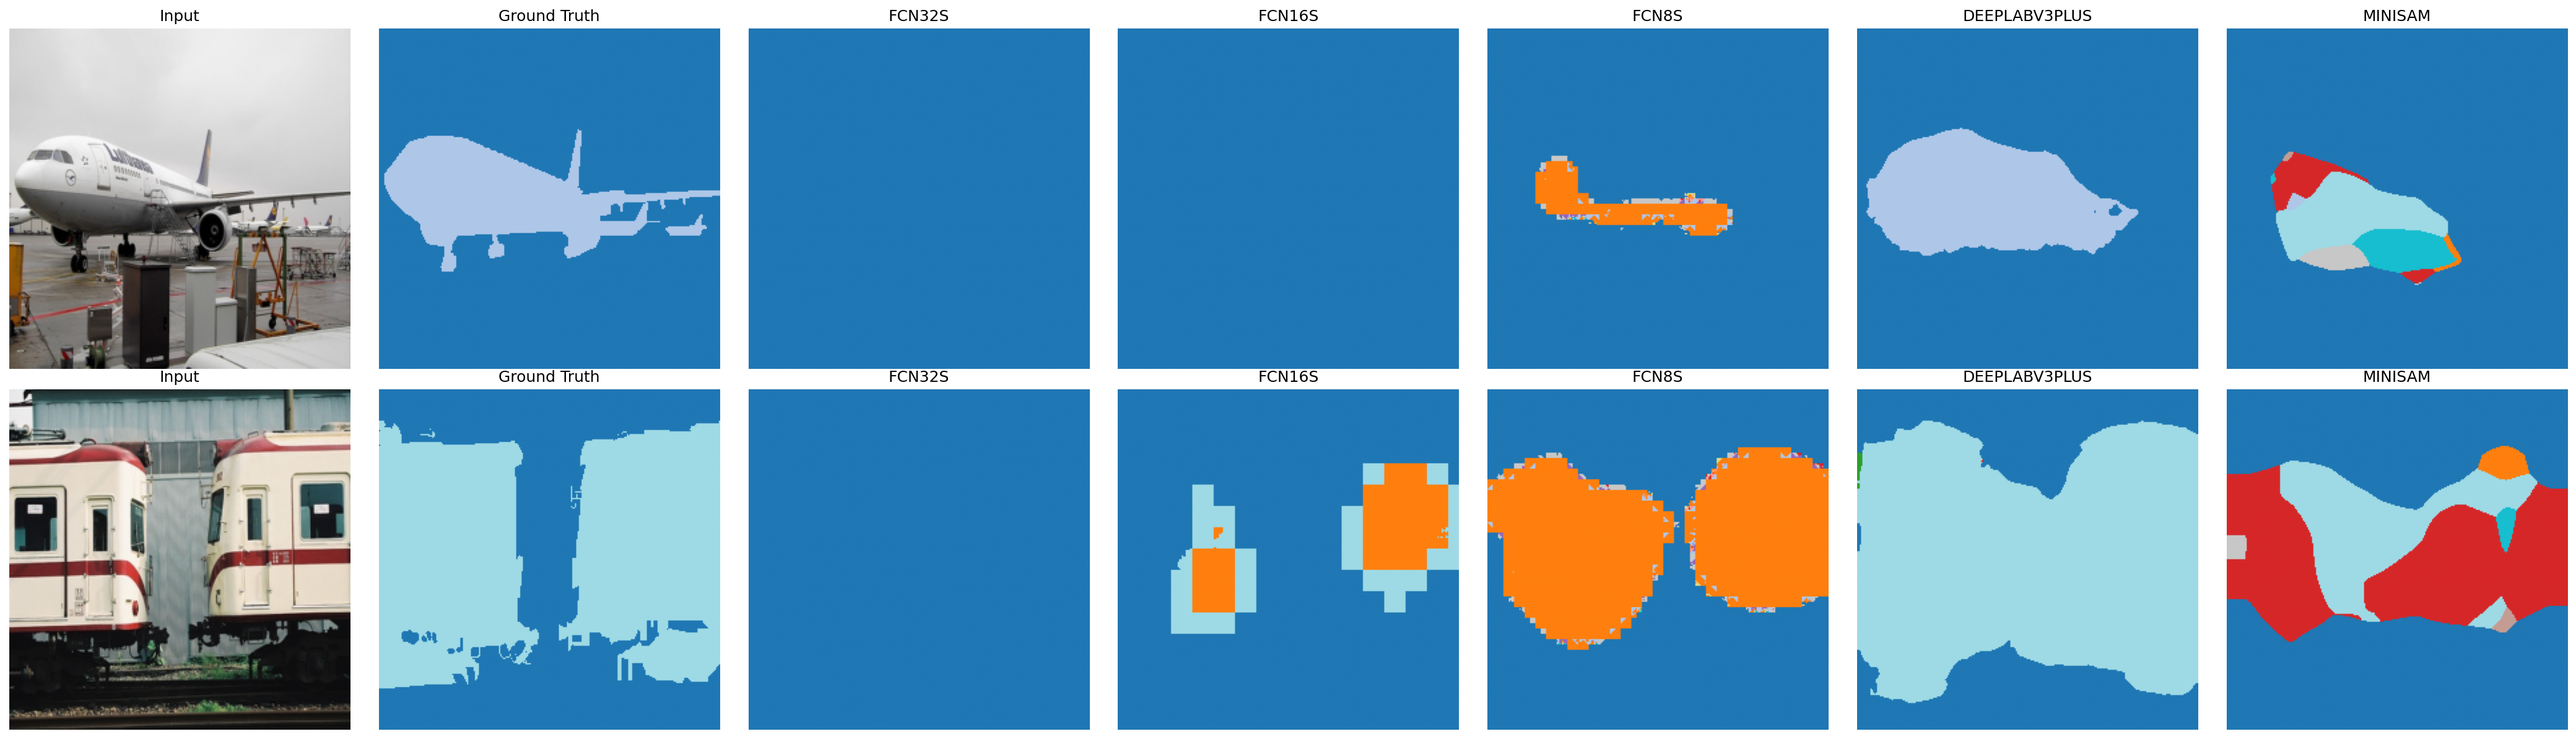
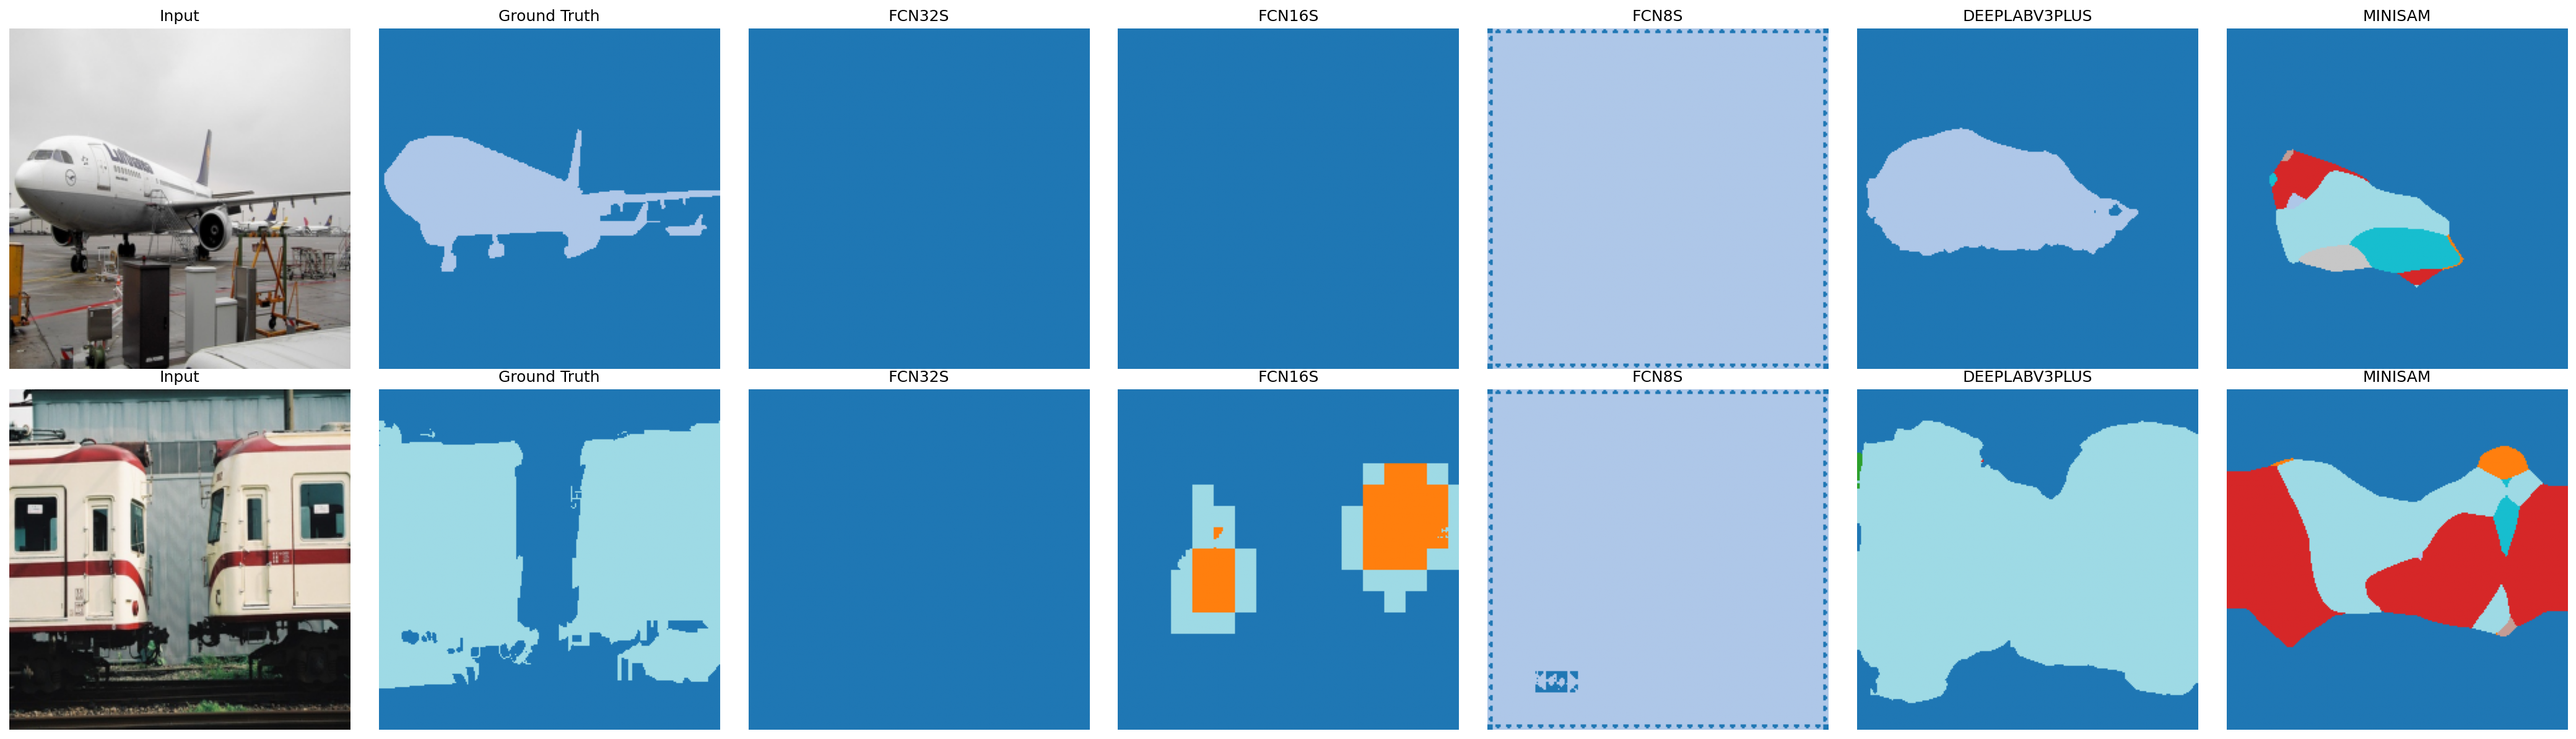
Refactor weight initialization in FCN architectures; enhance training configuration; update model comparison and training curve images.

diff --git a/Advanced_Image_Segmentation/codes/lab05_student.py b/Advanced_Image_Segmentation/codes/lab05_student.py
@@ -212,27 +212,23 @@ class FCN16s(nn.Module):
         return x
     
     def _initialize_weights(self):
-        """Initialize ConvTranspose2d and score layers with proper weights"""
-        for m in self.modules():
-            if isinstance(m, nn.ConvTranspose2d):
-                # Initialize with bilinear upsampling weights
-                # ConvTranspose2d weight shape: (in_channels, out_channels, kernel_h, kernel_w)
-                in_ch, out_ch, h, w = m.weight.data.size()
-                weight = self._get_bilinear_filter(h, w, in_ch, out_ch)
-                m.weight.data.copy_(weight)
-            elif isinstance(m, nn.Conv2d):
-                # Initialize score layers (1x1 conv) with small weights
-                if m.kernel_size == (1, 1):
-                    nn.init.xavier_uniform_(m.weight, gain=0.1)
-                    if m.bias is not None:
-                        nn.init.constant_(m.bias, 0)
+        """Initialize upsampling and score layers (don't touch pretrained ResNet)"""
+        # Initialize upsampling layer with bilinear interpolation
+        if isinstance(self.upscore32, nn.ConvTranspose2d):
+            in_ch, out_ch, h, w = self.upscore32.weight.data.size()
+            weight = self._get_bilinear_filter(h, w, in_ch, out_ch)
+            self.upscore32.weight.data.copy_(weight)
+        
+        # Initialize score layer with small random weights
+        nn.init.normal_(self.score_fr.weight, std=0.01)
+        if self.score_fr.bias is not None:
+            nn.init.constant_(self.score_fr.bias, 0)
     
     def _get_bilinear_filter(self, kernel_h, kernel_w, in_channels, out_channels):
         """Generate bilinear interpolation weights"""
         factor = (kernel_h + 1) // 2
         if kernel_h % 2 == 1:
             center = factor - 1
-        else:
             center = factor - 0.5
         og = np.ogrid[:kernel_h, :kernel_w]
         filt = (1 - abs(og[0] - center) / factor) * (1 - abs(og[1] - center) / factor)
@@ -338,19 +334,18 @@ class FCN8s(nn.Module):
     
     def _initialize_weights(self):
         """Initialize ConvTranspose2d and score layers with proper weights"""
-        for m in self.modules():
+        # Initialize upsampling layers with bilinear interpolation
+        for m in [self.upscore2, self.upscore_pool4, self.upscore8]:
             if isinstance(m, nn.ConvTranspose2d):
-                # Initialize with bilinear upsampling weights
-                # ConvTranspose2d weight shape: (in_channels, out_channels, kernel_h, kernel_w)
                 in_ch, out_ch, h, w = m.weight.data.size()
                 weight = self._get_bilinear_filter(h, w, in_ch, out_ch)
                 m.weight.data.copy_(weight)
-            elif isinstance(m, nn.Conv2d):
-                # Initialize score layers (1x1 conv) with small weights
-                if m.kernel_size == (1, 1):
-                    nn.init.xavier_uniform_(m.weight, gain=0.1)
-                    if m.bias is not None:
-                        nn.init.constant_(m.bias, 0)
+        
+        # Initialize score layers with small random weights (don't touch ResNet!)
+        for m in [self.score_pool3, self.score_pool4, self.score_fr]:
+            nn.init.normal_(m.weight, std=0.01)
+            if m.bias is not None:
+                nn.init.constant_(m.bias, 0)
     
     def _get_bilinear_filter(self, kernel_h, kernel_w, in_channels, out_channels):
         """Generate bilinear interpolation weights"""
@@ -1480,7 +1475,7 @@ def main(model_name=None):
         'n_classes': 21,
         'batch_size': 32,  # RTX 3090: 8→32 (4x increase with 24GB VRAM)
         'learning_rate': 3e-4,  # Increased LR for larger batch size (linear scaling)
-        'epochs': 1,  # Increased from 30 for better convergence with augmentation
+        'epochs': 10,  # Increased from 30 for better convergence with augmentation
         'device': device,
         'image_size': 512,  # RTX 3090: 256→512 (higher resolution for better accuracy)
         'data_dir': '../../voc/VOC2012_train_val/VOC2012_train_val',
@@ -2195,7 +2190,7 @@ if __name__ == "__main__":
     
     # ==================== CONFIGURATION ====================
     # Set which operations to run
-    TRAIN_MODELS = ['all']  # List of models: ['fcn32s', 'fcn16s', 'fcn8s', 'deeplabv3plus', 'minisam']
+    TRAIN_MODELS = ['fcn8s']  # List of models: ['fcn32s', 'fcn16s', 'fcn8s', 'deeplabv3plus', 'minisam']
                               # Or use 'all' to train all models sequentially
     RUN_COMPARISON = True     # Compare all trained models
     RUN_INTERACTIVE_DEMO = False  # Run Mini-SAM interactive demo
